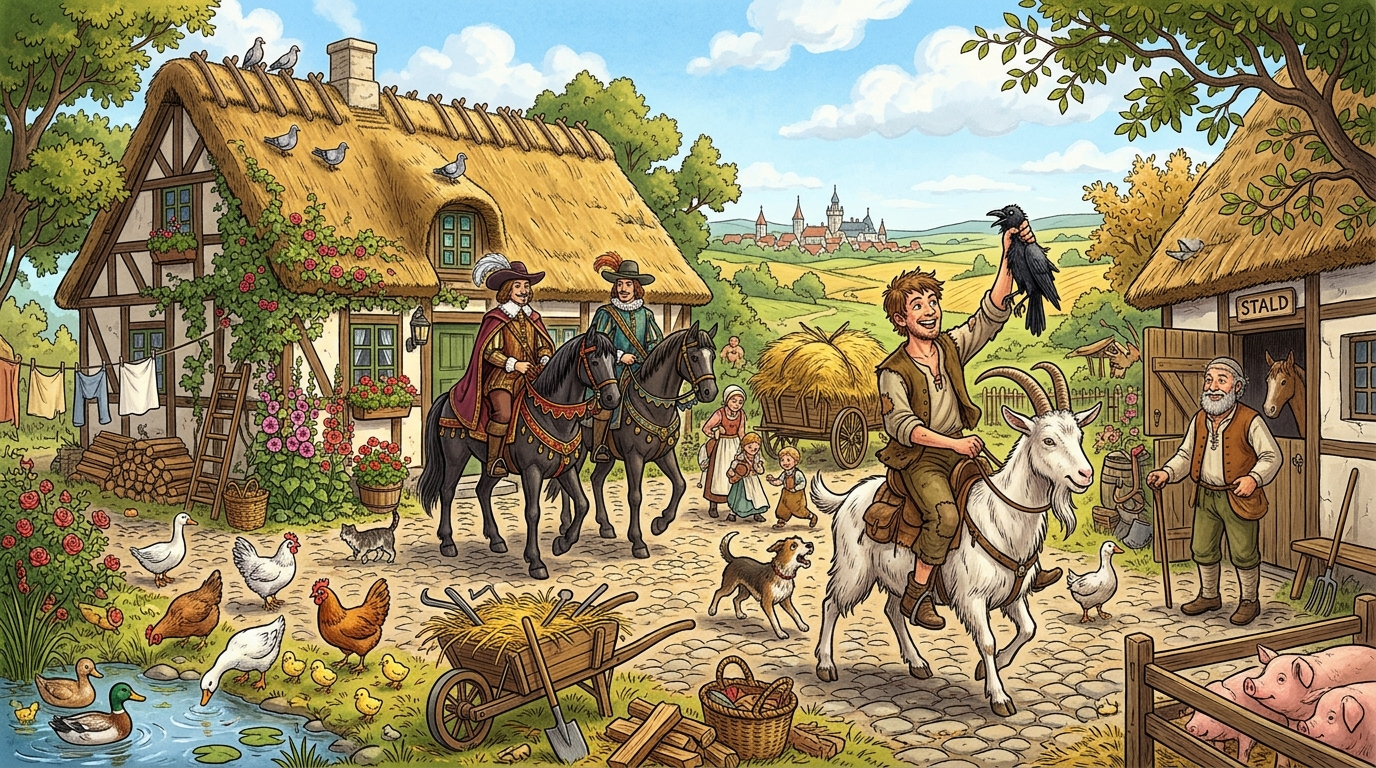
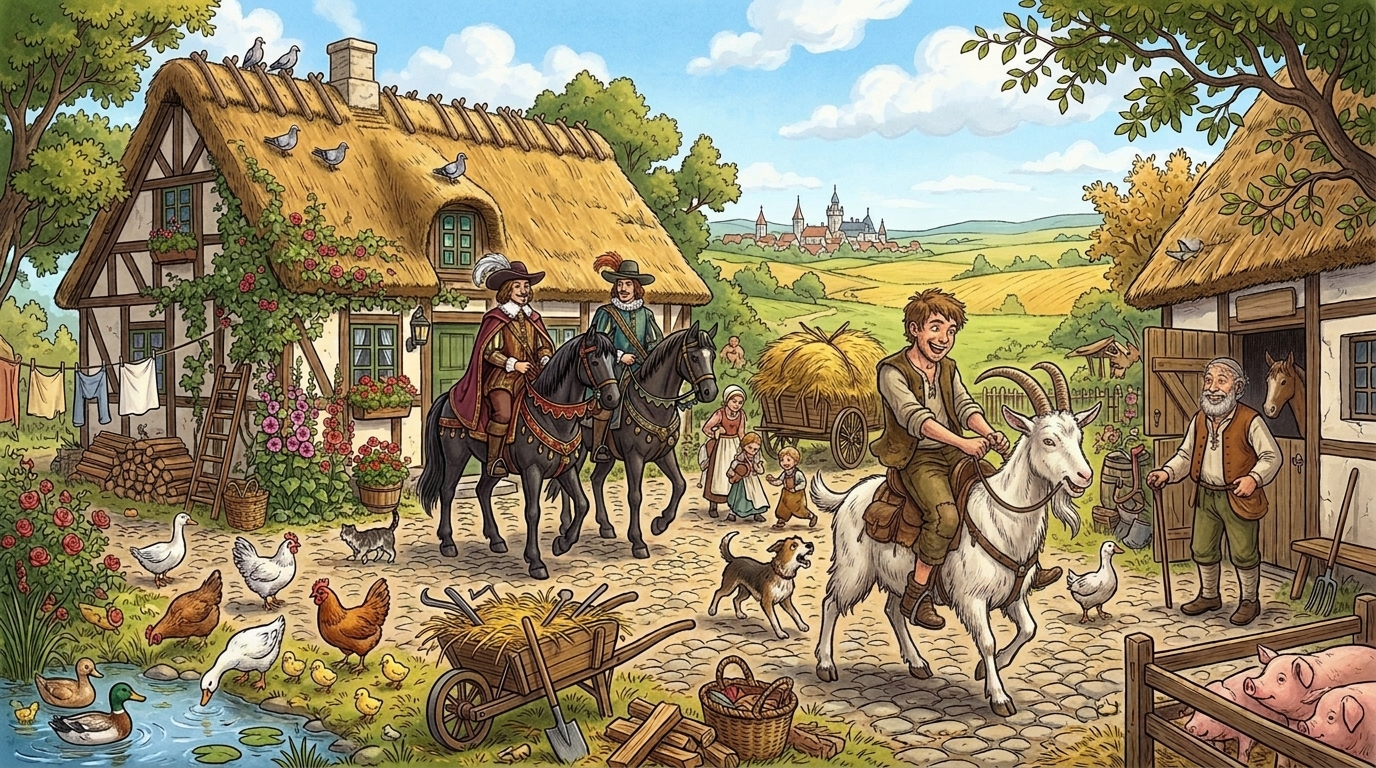
feat(hc-andersen): nyt 1. vrimlebillede uden krage og tilpasset dialog i 2. del

diff --git a/src/data/hc_andersen_stories.js b/src/data/hc_andersen_stories.js
@@ -1083,8 +1083,8 @@ export const hcAndersenStories = [
                 "chapter": "Scene 2: På landevejen til slottet",
                 "chapterEn": "Scene 2: On the Road to the Castle",
                 "vrimmelImage": "assets/klods_hans_scene2.jpg",
-                "audioText": "De to brødre red foran på deres heste. De talte ikke, for de tænkte over alle de kloge ord. Klods-Hans råbte: Halehoj! Her kommer jeg! Se hvad jeg har fundet på landevejen: Det er en død krage! Brødrene sagde: Klods! Hvad vil du med en død krage? Klods-Hans svarede: Den vil jeg forære til kongedatteren! Brødrene grinede: Haha! Gør du bare det! Klods-Hans råbte: Halehoj! Her er jeg igen! Nu skal I se hvad jeg har fundet: En gammel træsko! Brødrene sagde: En gammel træsko uden overstykke? Skal kongedatteren også have den? Klods-Hans svarede: Ja, det skal hun da! Klods-Hans råbte: Halehoj! Nu bliver det endnu bedre! Se hvad jeg har gravet op af grøften! Brødrene sagde: Føj, Klods-Hans! Det er jo pludder og mudder fra grøften! Klods-Hans svarede: Ja, og det er den fineste slags! Hvor vil hun blive glad!",
-                "text": "Fortæller: »De to brødre red foran på deres heste. De talte ikke, for de tænkte over alle de kloge ord.«\n\nKlods-Hans: »Halehoj! Her kommer jeg! Se hvad jeg har fundet på landevejen: Det er en død krage!«\n\nBrødrene: »Klods! Hvad vil du med en død krage?«\n\nKlods-Hans: »Den vil jeg forære til kongedatteren!«\n\nBrødrene: »Haha! Gør du bare det!« (de ler og rider videre)\n\nKlods-Hans: »Halehoj! Her er jeg igen! Nu skal I se hvad jeg har fundet: En gammel træsko!«\n\nBrødrene: »En gammel træsko uden overstykke? Skal kongedatteren også have den?«\n\nKlods-Hans: »Ja, det skal hun da!«\n\nKlods-Hans: »Halehoj! Nu bliver det endnu bedre! Se hvad jeg har gravet op af grøften!«\n\nBrødrene: »Føj, Klods-Hans! Det er jo pludder og mudder fra grøften!«\n\nKlods-Hans: »Ja, og det er den fineste slags! Hvor vil hun blive glad!«",
+                "audioText": "De to brødre red foran på deres heste. De talte ikke, for de tænkte over alt det kloge de ville sige. Klods-Hans råbte: Her kommer jeg! Se, hvad jeg har fundet på landevejen: Det er en død krage! Brødrene sagde: Klods! Hvad vil du med en død krage? Klods-Hans svarede: Den vil jeg give til kongedatteren! Brødrene grinede: Haha! Gør du bare det! Klods-Hans råbte: Her er jeg igen! Nu skal I se, hvad jeg har fundet: En gammel træsko! Brødrene sagde: En gammel træsko? Skal kongedatteren også have den? Klods-Hans svarede: Ja, det skal hun da! Klods-Hans råbte: Halehoj! Nu bliver det endnu bedre! Se, hvad jeg har gravet op af grøften! Brødrene sagde: Adr, hvor ulækkert, Klods-Hans! Det er jo mudder fra grøften! Klods-Hans svarede: Ja, og det er den fineste slags! Hvor vil hun blive glad!",
+                "text": "Fortæller: »De to brødre red foran på deres heste. De talte ikke, for de tænkte over alt det kloge de ville sige.«\n\nKlods-Hans: »Her kommer jeg! Se, hvad jeg har fundet på landevejen: Det er en død krage!«\n\nBrødrene: »Klods! Hvad vil du med en død krage?«\n\nKlods-Hans: »Den vil jeg give til kongedatteren!«\n\nBrødrene: »Haha! Gør du bare det!« (de ler og rider videre)\n\nKlods-Hans: »Her er jeg igen! Nu skal I se, hvad jeg har fundet: En gammel træsko!«\n\nBrødrene: »En gammel træsko? Skal kongedatteren også have den?«\n\nKlods-Hans: »Ja, det skal hun da!«\n\nKlods-Hans: »Halehoj! Nu bliver det endnu bedre! Se, hvad jeg har gravet op af grøften!«\n\nBrødrene: »Adr, hvor ulækkert, Klods-Hans! Det er jo mudder fra grøften!«\n\nKlods-Hans: »Ja, og det er den fineste slags! Hvor vil hun blive glad!«",
                 "hotspots": [
                     {
                         "x": 74,
@@ -1171,7 +1171,7 @@ export const hcAndersenStories = [
                     {
                         "speaker": "Fortæller",
                         "speakerIcon": "📖",
-                        "audioText": "De to brødre red foran på deres heste. De talte ikke, for de tænkte over alle de kloge ord.",
+                        "audioText": "De to brødre red foran på deres heste. De talte ikke, for de tænkte over alt det kloge de ville sige.",
                         "tokens": [
                             { "text": "De", "type": "pro", "key": "de" },
                             { "text": " ", "type": "plain" },
@@ -1202,19 +1202,22 @@ export const hcAndersenStories = [
                             { "text": "tænkte", "type": "vrb", "key": "tænke" },
                             { "text": " ", "type": "plain" },
                             { "text": "over", "type": "prep", "key": "over" },
-                            { "text": " alle de ", "type": "plain" },
+                            { "text": " alt det ", "type": "plain" },
                             { "text": "kloge", "type": "adj", "key": "klog" },
                             { "text": " ", "type": "plain" },
-                            { "text": "ord", "type": "sub", "key": "ord" },
+                            { "text": "de", "type": "pro", "key": "de" },
+                            { "text": " ", "type": "plain" },
+                            { "text": "ville", "type": "vrb", "key": "ville" },
+                            { "text": " ", "type": "plain" },
+                            { "text": "sige", "type": "vrb", "key": "sige" },
                             { "text": ".", "type": "plain" }
                         ]
                     },
                     {
                         "speaker": "Klods-Hans",
                         "speakerIcon": "🐐",
-                        "audioText": "Halehoj! Her kommer jeg! Se hvad jeg har fundet på landevejen: Det er en død krage!",
+                        "audioText": "Her kommer jeg! Se, hvad jeg har fundet på landevejen: Det er en død krage!",
                         "tokens": [
-                            { "text": "Halehoj! ", "type": "plain" },
                             { "text": "Her", "type": "adv", "key": "her" },
                             { "text": " ", "type": "plain" },
                             { "text": "kommer", "type": "vrb", "key": "komme" },
@@ -1245,7 +1248,7 @@ export const hcAndersenStories = [
                             "title": "Mesterens replik: Udfyld & Udtale",
                             "badge": "👑 Mesterens replik",
                             "prompt": "Hvilket tillægsord (adjektiv) råber Klods-Hans om kragen?",
-                            "sentenceTemplate": "Halehoj! Her kommer jeg! Se hvad jeg fandt: Det er en [ ___ ] krage!",
+                            "sentenceTemplate": "Her kommer jeg! Se, hvad jeg har fundet: Det er en [ ___ ] krage!",
                             "options": [
                                 "død",
                                 "levende",
@@ -1281,7 +1284,7 @@ export const hcAndersenStories = [
                     {
                         "speaker": "Klods-Hans",
                         "speakerIcon": "🐐",
-                        "audioText": "Den vil jeg forære til kongedatteren!",
+                        "audioText": "Den vil jeg give til kongedatteren!",
                         "tokens": [
                             { "text": "Den", "type": "pro", "key": "den" },
                             { "text": " ", "type": "plain" },
@@ -1289,7 +1292,7 @@ export const hcAndersenStories = [
                             { "text": " ", "type": "plain" },
                             { "text": "jeg", "type": "pro", "key": "jeg" },
                             { "text": " ", "type": "plain" },
-                            { "text": "forære", "type": "vrb", "key": "give" },
+                            { "text": "give", "type": "vrb", "key": "give" },
                             { "text": " ", "type": "plain" },
                             { "text": "til", "type": "prep", "key": "til" },
                             { "text": " ", "type": "plain" },
@@ -1316,9 +1319,8 @@ export const hcAndersenStories = [
                     {
                         "speaker": "Klods-Hans",
                         "speakerIcon": "🐐",
-                        "audioText": "Halehoj! Her er jeg igen! Nu skal I se hvad jeg har fundet: En gammel træsko!",
+                        "audioText": "Her er jeg igen! Nu skal I se, hvad jeg har fundet: En gammel træsko!",
                         "tokens": [
-                            { "text": "Halehoj! ", "type": "plain" },
                             { "text": "Her", "type": "adv", "key": "her" },
                             { "text": " ", "type": "plain" },
                             { "text": "er", "type": "vrb", "key": "være" },
@@ -1326,35 +1328,25 @@ export const hcAndersenStories = [
                             { "text": "jeg", "type": "pro", "key": "jeg" },
                             { "text": " ", "type": "plain" },
                             { "text": "igen", "type": "adv", "key": "igen" },
-                            { "text": "! ........ ", "type": "plain" },
-                            { "text": "[Vises i ordstillingsopgaven]", "type": "plain" }
+                            { "text": "!", "type": "plain" }
                         ],
                         "challenge": {
                             "type": "ordstilling",
                             "title": "Mesterens replik: Inversion efter 'Nu'",
                             "badge": "👑 Mesterens replik",
                             "prompt": "Saml Klods-Hans' udråb med inversion efter tidsadverbiet 'Nu':",
-                            "targetSentence": "Nu skal I se hvad jeg har fundet!",
+                            "targetSentence": "Nu skal I se, hvad jeg har fundet!",
                             "tiles": [
                                 "Nu",
                                 "skal",
                                 "I",
-                                "se",
+                                "se,",
                                 "hvad",
                                 "jeg",
                                 "har",
                                 "fundet!"
                             ],
                             "completedTokens": [
-                                { "text": "Halehoj! ", "type": "plain" },
-                                { "text": "Her", "type": "adv", "key": "her" },
-                                { "text": " ", "type": "plain" },
-                                { "text": "er", "type": "vrb", "key": "være" },
-                                { "text": " ", "type": "plain" },
-                                { "text": "jeg", "type": "pro", "key": "jeg" },
-                                { "text": " ", "type": "plain" },
-                                { "text": "igen", "type": "adv", "key": "igen" },
-                                { "text": "! ", "type": "plain" },
                                 { "text": "Nu", "type": "adv", "key": "nu" },
                                 { "text": " ", "type": "plain" },
                                 { "text": "skal", "type": "vrb", "key": "skulle" },
@@ -1378,16 +1370,12 @@ export const hcAndersenStories = [
                     {
                         "speaker": "Brødrene",
                         "speakerIcon": "🎩",
-                        "audioText": "En gammel træsko uden overstykke? Skal kongedatteren også have den?",
+                        "audioText": "En gammel træsko? Skal kongedatteren også have den?",
                         "tokens": [
                             { "text": "En ", "type": "plain" },
                             { "text": "gammel", "type": "adj", "key": "gammel" },
                             { "text": " ", "type": "plain" },
                             { "text": "træsko", "type": "sub", "key": "træsko" },
-                            { "text": " ", "type": "plain" },
-                            { "text": "uden", "type": "prep", "key": "uden" },
-                            { "text": " ", "type": "plain" },
-                            { "text": "overstykke", "type": "sub", "key": "stykke" },
                             { "text": "? ", "type": "plain" },
                             { "text": "Skal", "type": "vrb", "key": "skulle" },
                             { "text": " ", "type": "plain" },
@@ -1420,7 +1408,7 @@ export const hcAndersenStories = [
                     {
                         "speaker": "Klods-Hans",
                         "speakerIcon": "🐐",
-                        "audioText": "Halehoj! Nu bliver det endnu bedre! Se hvad jeg har gravet op af grøften!",
+                        "audioText": "Halehoj! Nu bliver det endnu bedre! Se, hvad jeg har gravet op af grøften!",
                         "tokens": [
                             { "text": "Halehoj! ", "type": "plain" },
                             { "text": "Nu", "type": "adv", "key": "nu" },
@@ -1450,18 +1438,16 @@ export const hcAndersenStories = [
                     {
                         "speaker": "Brødrene",
                         "speakerIcon": "🎩",
-                        "audioText": "Føj, Klods-Hans! Det er jo pludder og mudder fra grøften!",
+                        "audioText": "Adr, hvor ulækkert, Klods-Hans! Det er jo mudder fra grøften!",
                         "tokens": [
-                            { "text": "Føj, Klods-Hans! ", "type": "plain" },
+                            { "text": "Adr, hvor ", "type": "plain" },
+                            { "text": "ulækkert", "type": "adj", "key": "ulækker" },
+                            { "text": ", Klods-Hans! ", "type": "plain" },
                             { "text": "Det", "type": "pro", "key": "det" },
                             { "text": " ", "type": "plain" },
                             { "text": "er", "type": "vrb", "key": "være" },
                             { "text": " ", "type": "plain" },
                             { "text": "jo", "type": "adv", "key": "jo" },
-                            { "text": " ", "type": "plain" },
-                            { "text": "pludder", "type": "sub", "key": "mudder" },
-                            { "text": " ", "type": "plain" },
-                            { "text": "og", "type": "konj", "key": "og" },
                             { "text": " ", "type": "plain" },
                             { "text": "mudder", "type": "sub", "key": "mudder" },
                             { "text": " ", "type": "plain" },
@@ -1592,15 +1578,15 @@ export const hcAndersenStories = [
                             {
                                 "id": "s2_s3",
                                 "badge": "🟢 Synonym & Begreb",
-                                "prompt": "Brødrene råber: 'Det er jo pludder!' Hvilket ord er et synonym for **pludder** i grøften?",
+                                "prompt": "Brødrene råber: 'Det er jo mudder fra grøften!' Hvilket ord er et synonym for **mudder**?",
                                 "options": [
-                                    "Mudder (eller pløre)",
+                                    "Pludder (eller pløre)",
                                     "Sand",
                                     "Sten",
                                     "Græs"
                                 ],
                                 "correct": 0,
-                                "explanation": "*Pludder* er et gammelt dansk ord for vådt, fedtet mudder eller pløre i en grøft."
+                                "explanation": "*Mudder* og *pludder* (eller *pløre*) er synonymer for våd, fedtet jord i en grøft."
                             }
                         ]
                     },

diff --git a/src/views/HCAndersenView.js b/src/views/HCAndersenView.js
@@ -21,7 +21,7 @@ export function renderHCAndersenView(container, navigateFn, extraData = {}) {
     viewContainer.className = 'view-container hc-andersen-container';
 
     // State
-    let activeStoryId = extraData?.storyId || extraData?.subPath || null;
+    let activeStoryId = extraData?.storyId || extraData?.story || extraData?.subPath || null;
     let isPlaying = false;
     let activeUtterance = null;
     let fontSizeLevel = 1; // 0 = standard, 1 = medium (default), 2 = stor
